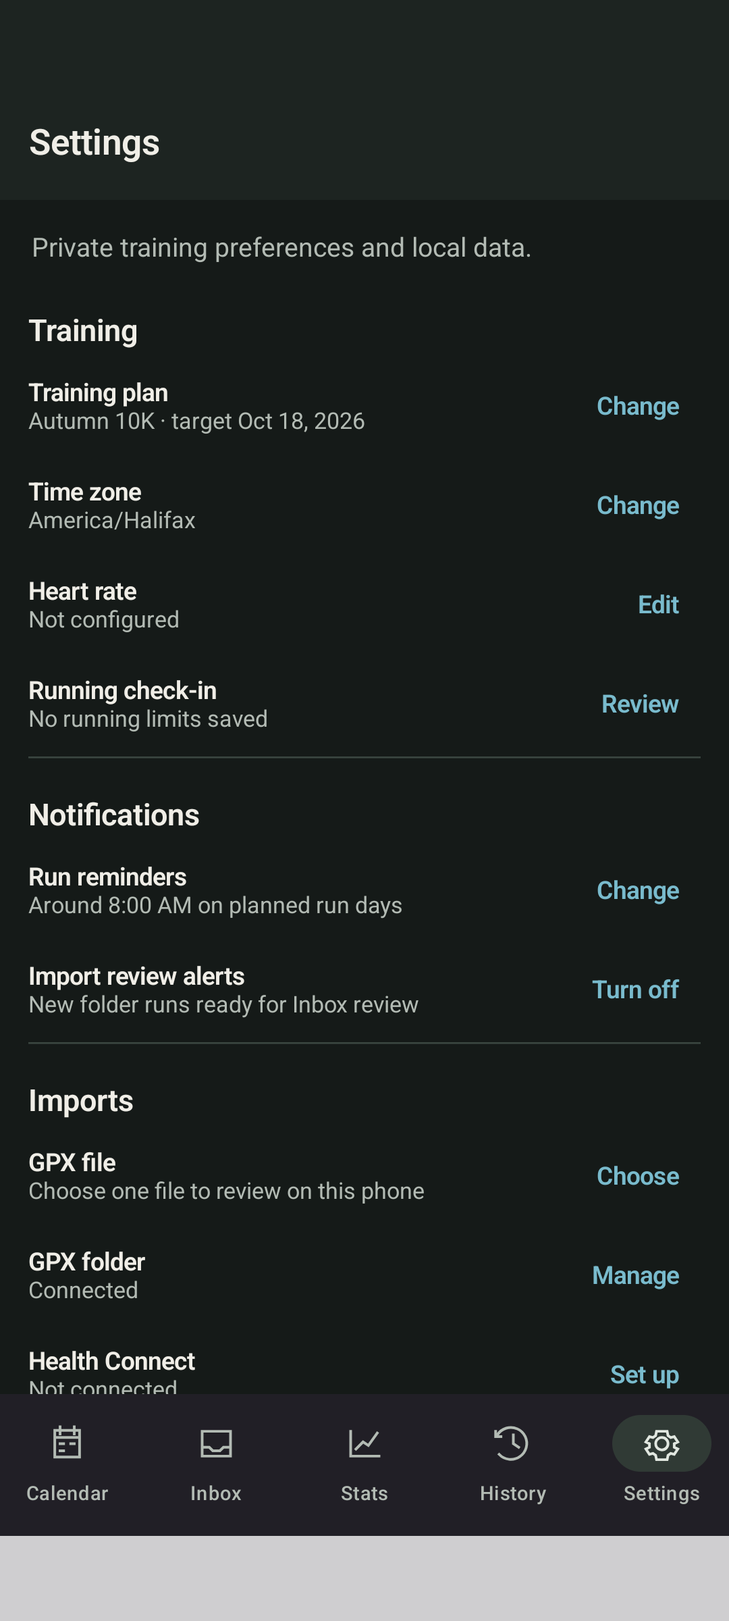
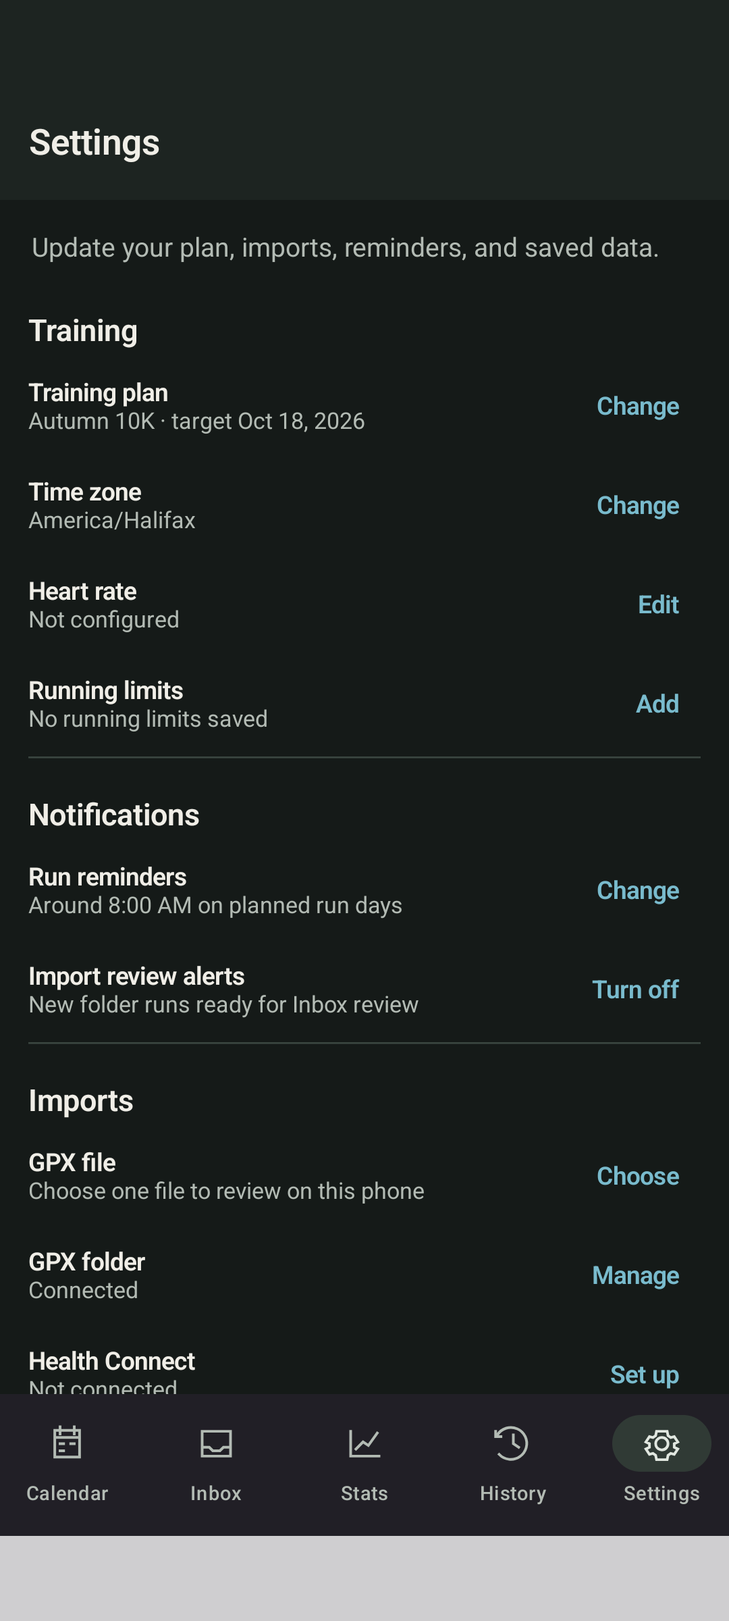
refactor(android): focus setup and settings on runner tasks

diff --git a/android/app/src/main/java/dev/deftmartian/runway/NativeSetupScreen.kt b/android/app/src/main/java/dev/deftmartian/runway/NativeSetupScreen.kt
@@ -32,7 +32,6 @@ import androidx.compose.runtime.remember
 import androidx.compose.runtime.saveable.rememberSaveable
 import androidx.compose.runtime.setValue
 import androidx.compose.ui.Modifier
-import androidx.compose.ui.Alignment
 import androidx.compose.ui.semantics.contentDescription
 import androidx.compose.ui.semantics.semantics
 import androidx.compose.ui.unit.dp
@@ -230,12 +229,12 @@ internal fun SetupScreen(
         }
     }
 
-    Box(modifier = Modifier.fillMaxSize()) {
-        NativeList(
-            loading = actionPending,
-            state = listState,
-            bottomContentPadding = 92.dp,
-        ) {
+    Column(modifier = Modifier.fillMaxSize()) {
+        Box(modifier = Modifier.weight(1f)) {
+            NativeList(
+                loading = actionPending,
+                state = listState,
+            ) {
         item { SetupProgress(step, isRoutineGoal) }
         if (dateChangedDuringSetup) {
             item {
@@ -330,11 +329,11 @@ internal fun SetupScreen(
                 }
                 item {
                     SetupSection(
-                        "Running check-in (optional)",
+                        "Running limits (optional)",
                         if (isRoutineGoal) {
-                            "A setup safeguard, not a daily readiness score. Current pain or a clinician's limit saves the routine without scheduling runs."
+                            "Use this if pain now or a clinician's limit should save the routine without scheduling runs."
                         } else {
-                            "A setup safeguard, not a daily readiness score. It can pause new scheduling or make distance changes more cautious."
+                            "Use this if an injury, recurring pain, or a clinician's limit should pause scheduling or make distance checks more cautious."
                         },
                     ) {
                         if (!healthContextExpanded) {
@@ -347,7 +346,7 @@ internal fun SetupScreen(
                                 modifier = Modifier.fillMaxWidth(),
                                 shape = MaterialTheme.shapes.small,
                             ) {
-                                Text("Review running check-in")
+                                Text("Review running limits")
                             }
                         } else {
                             CheckRow("A recent injury still affects training", recentInjury) { recentInjury = it }
@@ -428,7 +427,9 @@ internal fun SetupScreen(
                             availability.sorted().joinToString { dayLabels[it].take(3) }.ifBlank { "None" },
                         )
                         SettingRow("Time zone", timeZone.ifBlank { "Not set" })
-                        SettingRow("Running check-in", runningCheckInSummary(runningCheckIn))
+                        if (hasRunningLimits(runningCheckIn)) {
+                            SettingRow("Running limits", runningCheckInSummary(runningCheckIn))
+                        }
                         if (newPlanPaused) {
                             Notice("Goal stays pending — no active workouts will be created now.")
                         } else {
@@ -508,11 +509,11 @@ internal fun SetupScreen(
                 }
                 reviewIssue?.let { item { ValidationText(it) } }
             }
+            }
         }
         }
         Surface(
             modifier = Modifier
-                .align(Alignment.BottomCenter)
                 .fillMaxWidth(),
             color = MaterialTheme.colorScheme.surface,
             tonalElevation = 3.dp,
@@ -597,7 +598,7 @@ internal fun currentGoalStateLabel(state: String?): String =
 
 @Composable
 private fun SetupProgress(currentStep: Int, routine: Boolean) {
-    val labels = listOf("Goal", if (routine) "Running check-in" else "Starting point", "Schedule", "Review")
+    val labels = listOf("Goal", if (routine) "Running limits" else "Starting point", "Schedule", "Review")
     val stepNumber = currentStep + 1
     Column(
         modifier = Modifier
@@ -784,7 +785,7 @@ internal fun setupDateChanged(
     timeZone: String,
 ): Boolean {
     val zone = runCatching { ZoneId.of(timeZone) }.getOrNull() ?: return false
-    return LocalDate.ofInstant(previewInstant, zone) != LocalDate.ofInstant(submissionInstant, zone)
+    return previewInstant.atZone(zone).toLocalDate() != submissionInstant.atZone(zone).toLocalDate()
 }
 
 internal fun scheduleValidation(

diff --git a/android/app/src/androidTest/java/dev/deftmartian/runway/NativeFiveSurfaceNavigationInstrumentedTest.kt b/android/app/src/androidTest/java/dev/deftmartian/runway/NativeFiveSurfaceNavigationInstrumentedTest.kt
@@ -9,6 +9,7 @@ import androidx.compose.ui.test.assertIsEnabled
 import androidx.compose.ui.test.assertIsDisplayed
 import androidx.compose.ui.test.assertIsNotEnabled
 import androidx.compose.ui.test.assertIsNotSelected
+import androidx.compose.ui.test.assertIsOn
 import androidx.compose.ui.test.assertIsSelected
 import androidx.compose.ui.test.hasContentDescription
 import androidx.compose.ui.test.hasScrollAction
@@ -74,7 +75,7 @@ class NativeFiveSurfaceNavigationInstrumentedTest {
         assertSurface("Inbox", "Choose how each run counts, then decide whether its result changes the plan.")
         assertSurface("Stats", "Recorded runs and past plans.")
         assertSurface("History", "Current training schedule and past records.")
-        assertSurface("Settings", "Private training preferences and local data.")
+        assertSurface("Settings", "Update your plan, imports, reminders, and saved data.")
 
         selectSurface("History")
         compose.onNodeWithText("Plan options").performClick()
@@ -87,18 +88,16 @@ class NativeFiveSurfaceNavigationInstrumentedTest {
         selectSurface("Settings")
         compose.onNodeWithText("Training plan").performClick()
         compose.onNodeWithContentDescription("Back to Settings").assertIsDisplayed().performClick()
-        compose.onNodeWithText("Private training preferences and local data.").assertIsDisplayed()
+        compose.onNodeWithText("Update your plan, imports, reminders, and saved data.").assertIsDisplayed()
         compose.onNode(hasScrollAction()).performScrollToNode(hasText("Run reminders"))
         compose.onNodeWithText("Run reminders").assertIsDisplayed().performClick()
         compose.onNodeWithText(
             "Runway will check for a planned run around this time. Android may deliver the reminder later.",
         ).assertIsDisplayed()
         compose.onNodeWithText("Cancel").performClick()
-        compose.onNode(hasScrollAction()).performScrollToNode(hasText("Privacy"))
-        compose.onNodeWithText("Privacy").assertIsDisplayed()
-        compose.onNode(hasScrollAction()).performScrollToNode(hasText("Heart-rate privacy"))
-        compose.onNodeWithText("Heart-rate privacy").assertIsDisplayed()
-        compose.onNodeWithText("Heart-rate privacy").performClick()
+        compose.onNode(hasScrollAction()).performScrollToNode(hasText("Imported heart-rate details"))
+        compose.onNodeWithText("Imported heart-rate details").assertIsDisplayed()
+        compose.onNodeWithText("Imported heart-rate details").performClick()
         compose.onNodeWithTag("heart-rate-privacy-dialog").assertIsDisplayed()
         compose.onNodeWithText("Discard imported heart-rate values").performClick()
         compose.onNodeWithText("Discard stored heart rate").assertIsDisplayed()
@@ -289,6 +288,10 @@ class NativeFiveSurfaceNavigationInstrumentedTest {
 
         compose.onNode(hasScrollAction()).performScrollToNode(hasText("Use this schedule as shown"))
         compose.onNodeWithText("Use this schedule as shown").performClick()
+        compose.onNodeWithText("Use this schedule as shown").assertIsOn()
+        compose.onAllNodesWithText(
+            "Confirm the schedule after reviewing its warnings, or change the plan inputs.",
+        ).assertCountEquals(0)
         compose.onNodeWithText("Create plan").assertIsEnabled().performClick()
         compose.runOnIdle {
             assertTrue(submitted?.confirmedPlanKey?.isNotBlank() == true)
@@ -538,7 +541,7 @@ class NativeFiveSurfaceNavigationInstrumentedTest {
             }
         }
 
-        compose.onNodeWithText("Privacy settings restored").assertIsDisplayed()
+        compose.onNodeWithText("Import settings restored").assertIsDisplayed()
         compose.onNodeWithText("Dismiss note").performClick()
         compose.runOnIdle { assertTrue(acknowledged) }
     }

diff --git a/android/app/src/main/java/dev/deftmartian/runway/NativeSettingsScreen.kt b/android/app/src/main/java/dev/deftmartian/runway/NativeSettingsScreen.kt
@@ -202,10 +202,10 @@ internal fun SettingsScreen(
     var confirmingErase by rememberSaveable { mutableStateOf(false) }
 
     NativeList(loading = false) {
-        item { ScreenContext("Private training preferences and local data.") }
+        item { ScreenContext("Update your plan, imports, reminders, and saved data.") }
         state.retentionRepair?.let { repair ->
             item {
-                SettingCard("Privacy settings restored") {
+                SettingCard("Import settings restored") {
                     Text(
                         repair.settingsMessage(),
                         color = MaterialTheme.colorScheme.onSurfaceVariant,
@@ -240,7 +240,12 @@ internal fun SettingsScreen(
                 SettingsActionRow("Heart rate", heartRateSummary(state.heartRate), "Edit", !actionPending) {
                     editingHeartRate = true
                 }
-                SettingsActionRow("Running check-in", runningCheckInSummary(state.healthContext), "Review", !actionPending) {
+                SettingsActionRow(
+                    "Running limits",
+                    runningCheckInSummary(state.healthContext),
+                    if (hasRunningLimits(state.healthContext)) "Change" else "Add",
+                    !actionPending,
+                ) {
                     editingHealthContext = true
                 }
             }
@@ -304,15 +309,11 @@ internal fun SettingsScreen(
                     !actionPending,
                     onClick = callbacks.onOpenHealthConnect,
                 )
-            }
-        }
-        item {
-            SettingsRail("Privacy") {
-                SettingsActionRow("Route privacy", state.routePrivacy.summary, "Change", !actionPending) {
+                SettingsActionRow("Imported route details", state.routePrivacy.summary, "Change", !actionPending) {
                     editingRoutePrivacy = true
                 }
                 SettingsActionRow(
-                    "Heart-rate privacy",
+                    "Imported heart-rate details",
                     state.heartRatePrivacy.summary,
                     "Change",
                     !actionPending,
@@ -682,6 +683,13 @@ internal fun runningCheckInSummary(context: NativeHealthContext): String = when 
     context.notes.isNotBlank() -> "Private reminder · no effect on the schedule"
     else -> "No running limits saved"
 }
+
+internal fun hasRunningLimits(context: NativeHealthContext): Boolean =
+    context.recentInjury ||
+        context.currentPain ||
+        context.recurringPain ||
+        context.clinicianRestriction ||
+        context.notes.isNotBlank()
 
 internal fun runningCheckInEffect(context: NativeHealthContext): String? = when {
     context.currentPain || context.clinicianRestriction ->

diff --git a/android/app/src/main/java/dev/deftmartian/runway/RunwayViewModel.kt b/android/app/src/main/java/dev/deftmartian/runway/RunwayViewModel.kt
@@ -1582,13 +1582,13 @@ internal fun activityEvidenceRequestIsCurrent(
 internal fun RetentionRepairNotice.message(): String = when {
     routeModeRestored && heartRateModeRestored ->
         "Runway found private route and heart-rate data retained by an earlier setup. " +
-            "Both privacy settings were restored to Keep private. Review Privacy in Settings."
+            "Both saved-detail choices were restored to Keep private. Review Imports in Settings."
     routeModeRestored ->
-        "Runway found private route data retained by an earlier setup. Route privacy was " +
-            "restored to Keep private. Review Privacy in Settings."
+        "Runway found private route data retained by an earlier setup. The route-detail choice " +
+            "was restored to Keep private. Review Imports in Settings."
     else ->
-        "Runway found private heart-rate data retained by an earlier setup. Heart-rate privacy " +
-            "was restored to Keep private. Review Privacy in Settings."
+        "Runway found private heart-rate data retained by an earlier setup. The heart-rate-detail " +
+            "choice was restored to Keep private. Review Imports in Settings."
 }
 
 internal fun RetentionRepairNotice.settingsMessage(): String = when {
@@ -1596,10 +1596,10 @@ internal fun RetentionRepairNotice.settingsMessage(): String = when {
         "An earlier setup left private route and heart-rate data in storage while both settings " +
             "said Discard. Runway kept the data and restored both settings to Keep private."
     routeModeRestored ->
-        "An earlier setup left private route data in storage while Route privacy said Discard. " +
+        "An earlier setup left private route data in storage while Imported route details said Discard. " +
             "Runway kept the data and restored the setting to Keep private."
     else ->
-        "An earlier setup left private heart-rate data in storage while Heart-rate privacy said " +
+        "An earlier setup left private heart-rate data in storage while Imported heart-rate details said " +
             "Discard. Runway kept the data and restored the setting to Keep private."
 }
 

diff --git a/android/app/src/main/java/dev/deftmartian/runway/NativeSettingsDialogs.kt b/android/app/src/main/java/dev/deftmartian/runway/NativeSettingsDialogs.kt
@@ -228,12 +228,12 @@ internal fun HealthContextDialog(
     )
     AlertDialog(
         onDismissRequest = onDismiss,
-        title = { Text("Running check-in") },
+        title = { Text("Running limits") },
         text = {
             LazyColumn(verticalArrangement = Arrangement.spacedBy(8.dp)) {
                 item {
                     Text(
-                        "This is a setup safeguard, not a daily readiness score. Use it only when pain, an injury, or a clinician's limit affects running now. A pain report from a recent run can turn it on; clear it when it no longer reflects your situation.",
+                        "Save this only when one of these should affect future plan setup. Current pain or a clinician's limit pauses new scheduling; recent injury or recurring pain makes distance checks more cautious. Clear a saved limit when it no longer applies.",
                         color = MaterialTheme.colorScheme.onSurfaceVariant,
                     )
                 }
@@ -276,7 +276,7 @@ internal fun HealthContextDialog(
                     )
                 },
                 enabled = !actionPending,
-            ) { Text("Save check-in") }
+            ) { Text("Save limits") }
         },
         dismissButton = { TextButton(onClick = onDismiss) { Text("Cancel") } },
     )

diff --git a/android/app/src/test/java/dev/deftmartian/runway/NativeSettingsSummaryTest.kt b/android/app/src/test/java/dev/deftmartian/runway/NativeSettingsSummaryTest.kt
@@ -77,7 +77,7 @@ class NativeSettingsSummaryTest {
     }
 
     @Test
-    fun `running check-in summary states the saved consequence`() {
+    fun `running limits summary states the saved consequence`() {
         assertEquals(
             "Pain reported now · setup will not schedule runs",
             runningCheckInSummary(
@@ -99,10 +99,13 @@ class NativeSettingsSummaryTest {
             runningCheckInSummary(NativeHealthContext(notes = "remember")),
         )
         assertEquals("No running limits saved", runningCheckInSummary(NativeHealthContext()))
+        assertFalse(hasRunningLimits(NativeHealthContext()))
+        assertTrue(hasRunningLimits(NativeHealthContext(recurringPain = true)))
+        assertTrue(hasRunningLimits(NativeHealthContext(notes = "remember")))
     }
 
     @Test
-    fun `running check-in effects distinguish scheduling ramp checks and private notes`() {
+    fun `running limit effects distinguish scheduling ramp checks and private notes`() {
         assertEquals(
             "New setup saves the goal but does not create a schedule. Existing workouts stay recorded.",
             runningCheckInEffect(NativeHealthContext(currentPain = true)),

diff --git a/android/app/src/main/java/dev/deftmartian/runway/NativeInboxStatsScreens.kt b/android/app/src/main/java/dev/deftmartian/runway/NativeInboxStatsScreens.kt
@@ -506,7 +506,7 @@ private fun RoutineStatsAssessment(
     onOpenCalendar: () -> Unit,
 ) {
     history?.currentSignal?.healthNotice?.let { notice ->
-        SettingCard(notice.heading.orEmpty().ifBlank { "Running check-in" }) {
+        SettingCard(notice.heading.orEmpty().ifBlank { "Running limits" }) {
             Text(notice.message.orEmpty(), color = MaterialTheme.colorScheme.onSurfaceVariant)
         }
     }
@@ -639,7 +639,7 @@ private fun StatsAssessment(history: NativeTrainingHistory?) {
     val weeks = history?.weeklySummaries.orEmpty()
     val signal = history?.currentSignal
     signal?.healthNotice?.let { notice ->
-        SettingCard(notice.heading.orEmpty().ifBlank { "Running check-in" }) {
+        SettingCard(notice.heading.orEmpty().ifBlank { "Running limits" }) {
             Text(notice.message.orEmpty(), color = MaterialTheme.colorScheme.onSurfaceVariant)
         }
     }

diff --git a/android/app/src/main/java/dev/deftmartian/runway/NativeRunDialogs.kt b/android/app/src/main/java/dev/deftmartian/runway/NativeRunDialogs.kt
@@ -53,7 +53,7 @@ internal fun positiveRunMeasurementError(value: String, unit: String): String? {
 
 internal fun feedbackPlanChangeMessage(planPhase: String?): String =
     if (planPhase == "routine") {
-        "Hard effort and pain are saved in your record. A pain report also updates the running check-in; neither changes later routine days."
+        "Hard effort and pain are saved in your record. A pain report also updates your running limits; neither changes later routine days."
     } else {
         "These reports can offer conservative next-step options. Nothing changes until you choose and apply it."
     }

diff --git a/android/app/src/test/java/dev/deftmartian/runway/NativeRunValidationTest.kt b/android/app/src/test/java/dev/deftmartian/runway/NativeRunValidationTest.kt
@@ -53,7 +53,7 @@ class NativeRunValidationTest {
     @Test
     fun `future plan guidance follows the routine phase rather than its editable prescription`() {
         assertEquals(
-            "Hard effort and pain are saved in your record. A pain report also updates the running check-in; neither changes later routine days.",
+            "Hard effort and pain are saved in your record. A pain report also updates your running limits; neither changes later routine days.",
             feedbackPlanChangeMessage("routine"),
         )
         assertEquals(

diff --git a/android/app/src/test/java/dev/deftmartian/runway/RunwayActionPolicyTest.kt b/android/app/src/test/java/dev/deftmartian/runway/RunwayActionPolicyTest.kt
@@ -115,7 +115,7 @@ class RunwayActionPolicyTest {
 
         assertTrue(message.contains("private route and heart-rate data"))
         assertTrue(message.contains("restored to Keep private"))
-        assertTrue(message.contains("Review Privacy in Settings"))
+        assertTrue(message.contains("Review Imports in Settings"))
         assertTrue(
             RetentionRepairNotice(
                 routeModeRestored = true,

diff --git a/android/app/src/test/java/dev/deftmartian/runway/NativeStatsLayoutTest.kt b/android/app/src/test/java/dev/deftmartian/runway/NativeStatsLayoutTest.kt
@@ -110,7 +110,7 @@ class NativeStatsLayoutTest {
     fun `short setting values retain the compact two-column layout`() {
         assertFalse(
             usesStackedSettingRow(
-                label = "Route privacy",
+                label = "Imported route details",
                 value = "Private",
                 monospace = false,
                 availableWidthDp = 328f,

diff --git a/docs/PRODUCT.md b/docs/PRODUCT.md
@@ -4,11 +4,9 @@
 
 runway helps runners who coach themselves make a conservative plan, record what actually happened, and decide what—if anything—should change next. It can guide someone toward a race or help them keep a regular weekly running habit.
 
-runway stores every plan, run, import, and note on one Android device unless the runner explicitly exports a backup. It has no account, server, subscription, social graph, web client, or cloud sync.
-
 ## Product boundary
 
-runway is not live GPS tracking, route discovery, a wearable replacement, a generic activity log, a social fitness product, or a medical coach. A watch, phone, or another app can record a run; runway helps fit that run back into a training plan or weekly routine.
+runway is not live GPS tracking, route discovery, a wearable replacement, a generic activity log, a social fitness product, or a medical coach. A watch, phone, or another app can record a run; runway helps fit that run back into a training plan or weekly routine. Plans, runs, imports, and notes stay on one Android device unless the runner explicitly creates a backup or export.
 
 The product must not silently change future training because a runner missed, shortened, extended, moved, or imported an activity. It may offer conservative next steps, but it applies one only after the runner confirms it.
 
@@ -30,9 +28,9 @@ Defaults are recommendations, not constraints. The runner can change available d
 
 Before an established race plan is created, Setup shows its first week, peak week, longest planned run, required ramp, default ramp, assessment, and warnings. A plan outside the usual recommendation remains available only after the runner confirms that exact workout schedule. A plan outside the generation limit is not created; Setup directs the runner to move the race, choose a shorter goal, or change the starting point. If the local training date changes while Setup is open, the candidate is regenerated before it can be created.
 
-Setup includes an optional running check-in with explicit effects. Current pain or a clinician's running limit saves a new plan or routine goal without scheduling workouts. A recent injury or recurring pain makes distance-plan ramps and workout-edit checks more cautious; it does not alter fixed foundation, calibration, or open routine slots. A private reminder is stored but never interpreted. These choices can be reviewed in Settings, and changing them does not silently rewrite existing workouts.
+Setup includes optional running limits with explicit effects. Current pain or a clinician's running limit saves a new plan or routine goal without scheduling workouts. A recent injury or recurring pain makes distance-plan ramps and workout-edit checks more cautious; it does not alter fixed foundation, calibration, or open routine slots. A private reminder is stored but never interpreted. These choices can be reviewed in Settings, and changing them does not silently rewrite existing workouts.
 
-When the running check-in blocks scheduling, runway keeps the pending goal visible so the runner can return to it or explicitly replace it. A pending or active goal is never archived as a side effect of merely opening setup.
+When a running limit blocks scheduling, runway keeps the pending goal visible so the runner can return to it or explicitly replace it. A pending or active goal is never archived as a side effect of merely opening setup.
 
 Finishing or archiving a plan leaves the training profile and recorded history intact. A weekly routine has no completion target; the runner explicitly archives it to end future slots. Either is a deliberate no-active-plan state, not unfinished onboarding: Calendar and Stats keep the record visible and offer a new plan or routine.
 
@@ -54,21 +52,17 @@ This distinction must remain visible in Calendar, Inbox, Stats, and History. Res
 2. **Inbox** — activity review, links, extra work, corrections, and unresolved plan decisions.
 3. **Stats** — generated/current/actual traces for prescriptions, or weekly scheduled/recorded/skipped counts for a routine, with plain-language context.
 4. **History** — plan or routine lifecycle, archived records, and auditable decisions.
-5. **Settings** — training setup, optional notifications, profile, privacy, imports, backup/export, erase, and local build information.
+5. **Settings** — training setup, optional notifications, imports, saved-data tools, and local build information.
 
 Onboarding is a focused setup flow, not a sixth destination.
 
-## Imports and privacy
+## Bring in runs
 
-Manual results, GPX shares, approved Storage Access Framework folders, and optional Health Connect readings all become local activity candidates. Intake is review-first. For a prescription, a candidate can be linked to a planned workout within three calendar days, counted as extra work, have its feedback recorded with that choice, or be deleted. An accepted unlinked run can return to review while its plan consequence remains unapplied; once a plan decision has been applied, that decision must be reversed through its own visible boundary first. For a weekly routine, accepted work is recorded against that week without a load consequence or automatic schedule change.
+Manual results, shared GPX files, approved GPX folders, and optional Health Connect readings all arrive in Inbox first. For a race plan, the runner links a candidate to a planned workout within three calendar days or counts it as extra work, records feedback, and then chooses whether the result should affect the plan. An accepted extra run can return to Inbox while its proposed plan change remains unapplied; an applied plan change must be undone first. For a weekly routine, accepted work counts toward that week without changing future run days.
 
 Gadgetbridge's automatic GPX export is the primary folder workflow. OpenTracks and other recorders can share GPX files or write them to a user-chosen directory; FitoTrack uses the directory path. This is a local file handoff, not a direct integration or continuous sync.
 
-GPX parsing is local and bounded. An approved folder is scanned when runway has access; background work is best-effort and is not a promise to watch a filesystem continuously. The runner can opt into a generic alert after a new folder activity is committed to Inbox for review. Health Connect is optional, read-only, and requests routes separately. Fresh profiles discard imported route and heart-rate detail. The runner can opt into private on-device retention; switching back to discard permanently removes the corresponding retained and pending import data. When route retention is enabled, activity detail may draw a bounded, private trace directly from retained points. It uses no basemap, tile service, or network request and does not expose coordinates through accessibility text.
-
-Planned-run reminders are also optional. They use best-effort Android background work, re-check the current local plan before posting, and never promise an exact alarm time. Both notification types are off by default and require Android notification permission.
-
-Backup/export is explicit and plaintext. It is a user-owned recovery and portability tool, not sync.
+Folder checks and planned-run reminders use Android's best-effort background work. Exact permission, retention, notification, backup, and deletion behavior is specified in [Security and privacy](SECURITY.md).
 
 ## Non-goals
 
